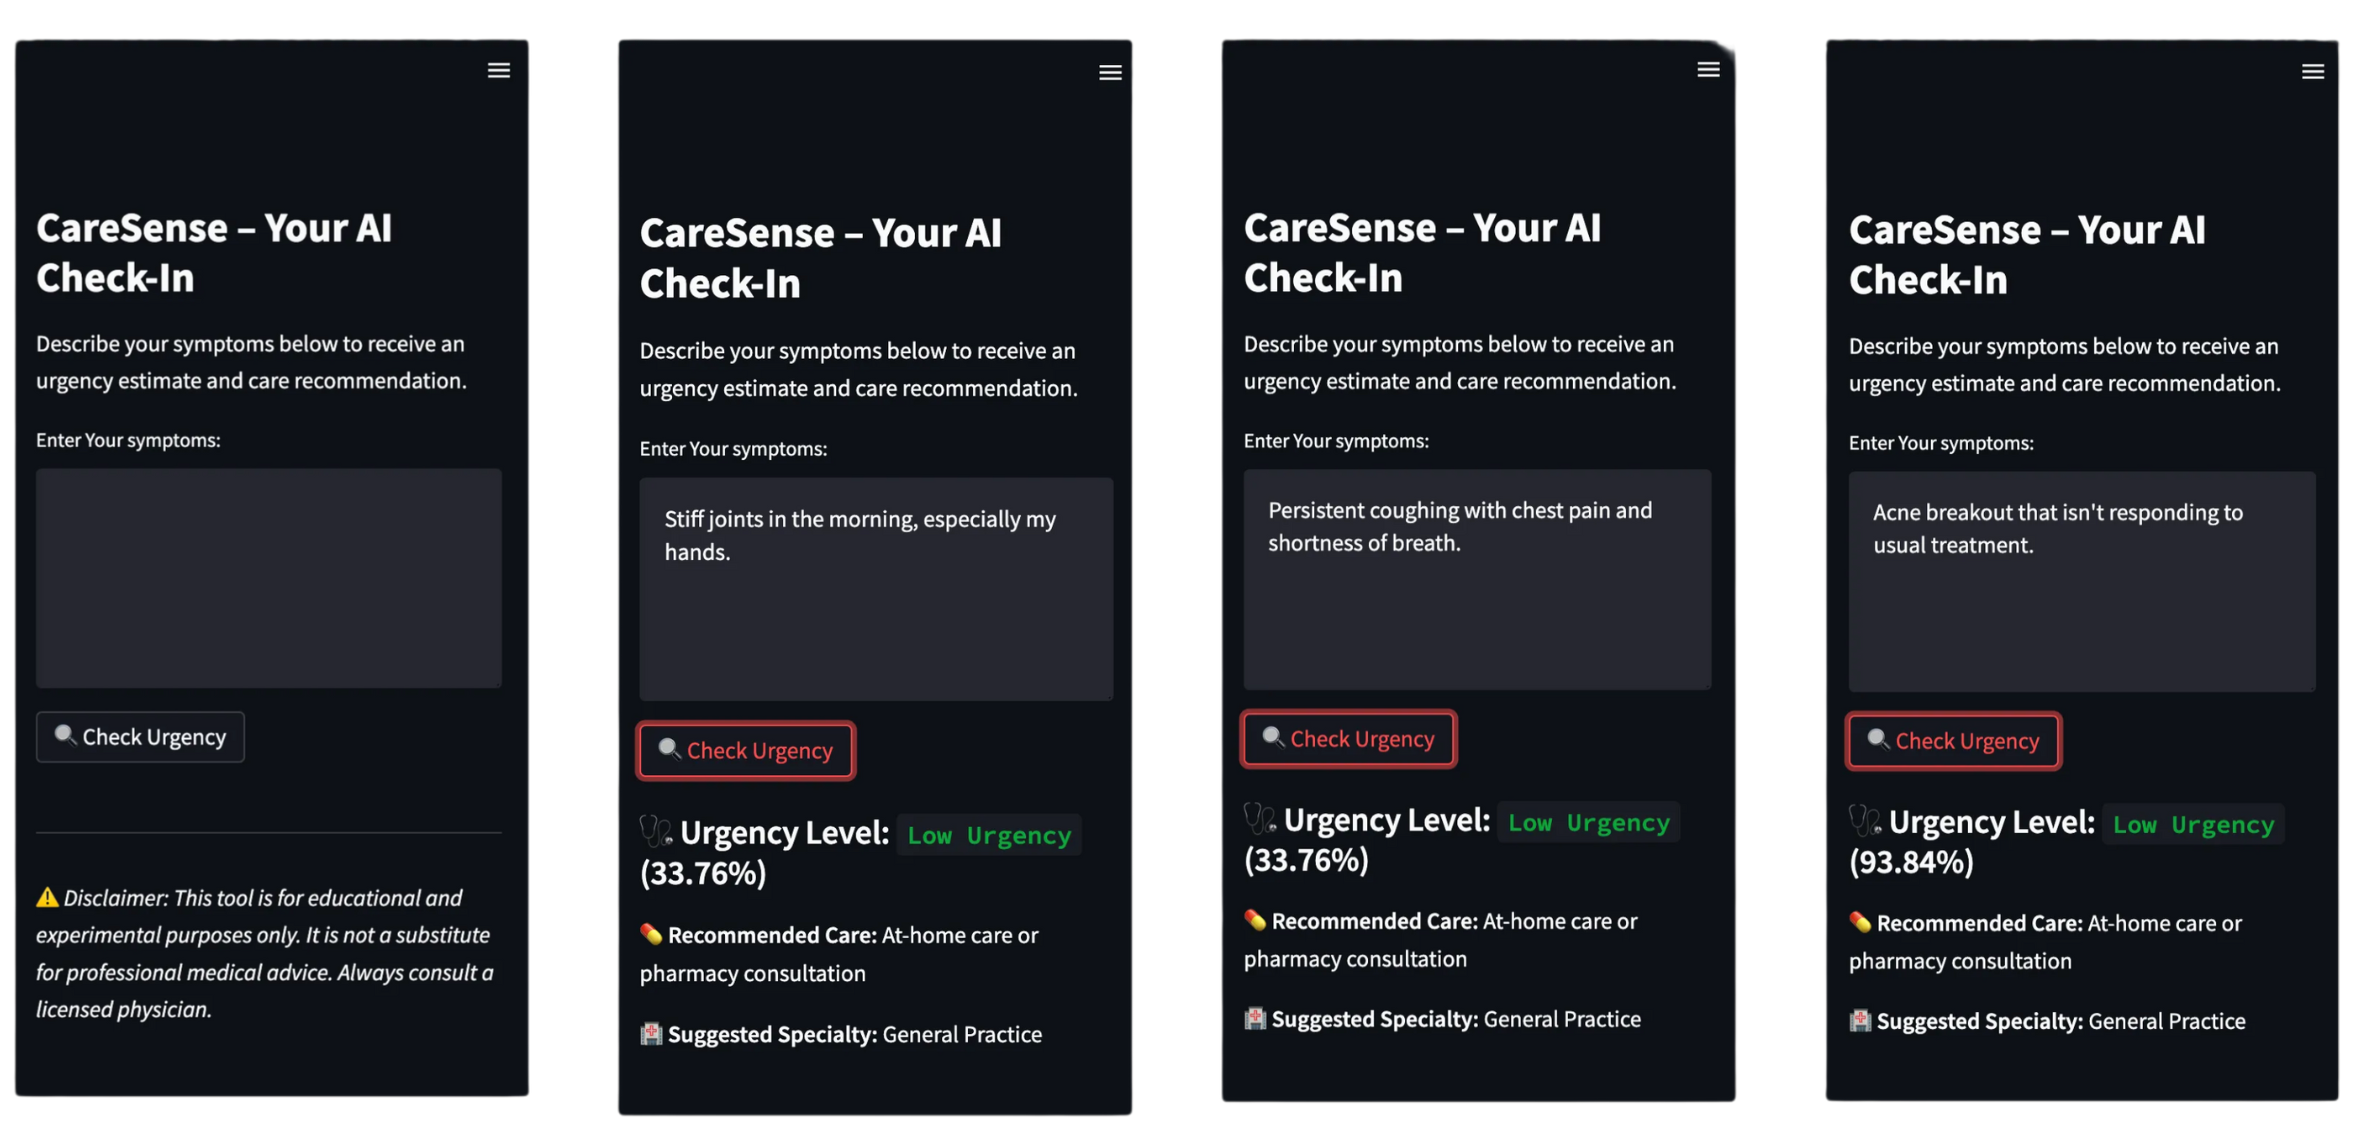
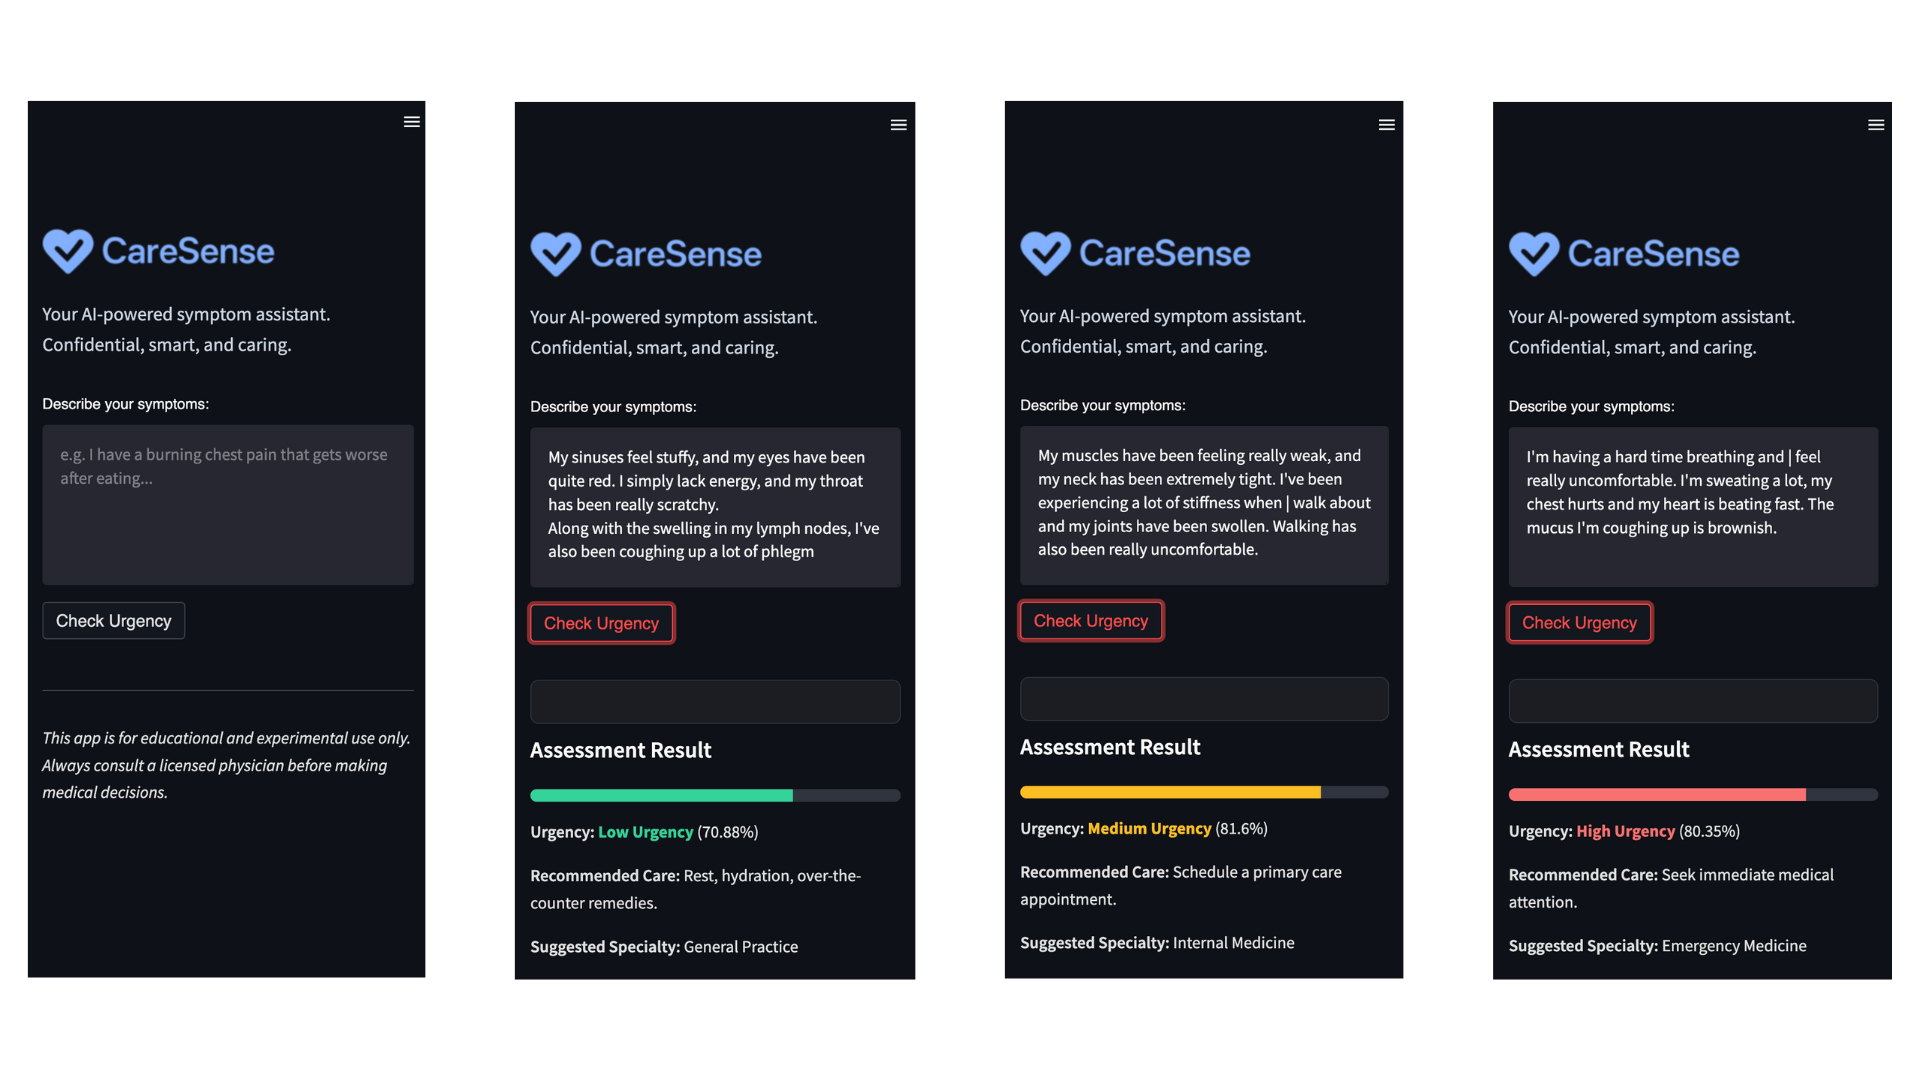
fixing stylistic changes before deployment

diff --git a/app.py b/app.py
@@ -3,14 +3,14 @@ from classifier import classify_symptom
 from datetime import datetime
 import pytz
 
-# Set up the app appearance and metadata
+# App config
 st.set_page_config(
     page_title="CareSense – AI Symptom Assistant",
     layout="centered",
     initial_sidebar_state="collapsed"
 )
 
-# Add dark mode styling with a clean, calming look
+# Styles
 st.markdown("""
     <style>
         html, body, .reportview-container, .main {
@@ -18,16 +18,10 @@ st.markdown("""
             color: #e1e1e1;
             font-family: 'Segoe UI', sans-serif;
         }
-        .title {
-            color: #38bdf8;
-            font-size: 32px;
-            font-weight: 700;
-            padding-top: 10px;
-        }
         .subtitle {
             color: #cbd5e1;
             font-size: 18px;
-            margin-bottom: 20px;
+            margin-bottom: 30px;
         }
         .card {
             background-color: #1a1d23;
@@ -36,36 +30,33 @@ st.markdown("""
             margin-top: 20px;
             border: 1px solid #2f343f;
         }
-        .urgency-high {
-            color: #f87171;
-            font-weight: bold;
+        .urgency-high { color: #f87171; font-weight: bold; }
+        .urgency-medium { color: #fbbf24; font-weight: bold; }
+        .urgency-low { color: #34d399; font-weight: bold; }
+        .progress-container {
+            height: 12px;
+            background-color: #2f343f;
+            border-radius: 6px;
+            overflow: hidden;
+            margin: 8px 0 16px 0;
         }
-        .urgency-medium {
-            color: #fbbf24;
-            font-weight: bold;
-        }
-        .urgency-low {
-            color: #34d399;
-            font-weight: bold;
+        .progress-bar {
+            height: 100%;
+            transition: width 0.3s ease;
         }
     </style>
 """, unsafe_allow_html=True)
 
-# Logo and subtitle (safe for local use)
+# Logo and subtitle
 st.image("assets/logo/caresense_logo_dark.png", width=220)
+st.markdown("<div class='subtitle'>Your AI-powered symptom assistant. Confidential, smart, and caring.</div>", unsafe_allow_html=True)
 
-st.markdown("<div style='color: #cbd5e1; font-size: 18px; margin-bottom: 20px;'>"
-            "Your AI-powered symptom assistant. Confidential, smart, and caring."
-            "</div>", unsafe_allow_html=True)
-
-
-# Let user input their symptoms
+# User input
 symptom_input = st.text_area("Describe your symptoms:", height=150, placeholder="e.g. I have a burning chest pain that gets worse after eating...")
 
-# Get current time for logs
 timestamp = datetime.now(pytz.timezone("US/Mountain")).strftime("%b %d, %Y at %I:%M %p")
 
-# Classify symptoms and log result
+# Handle user request
 if st.button("Check Urgency"):
     if symptom_input.strip():
         result = classify_symptom(symptom_input)
@@ -76,47 +67,81 @@ if st.button("Check Urgency"):
         st.session_state.logs.append({
             "text": symptom_input,
             "timestamp": timestamp,
-            "urgency": result["urgency"]
+            "urgency": result["urgency"],
+            "confidence": round(result["confidence"], 2)
         })
 
-        # Style urgency with colors
+        urgency_color = {
+            "High Urgency": "#f87171",
+            "Medium Urgency": "#fbbf24",
+            "Low Urgency": "#34d399"
+        }[result["urgency"]]
+
         urgency_class = {
             "High Urgency": "urgency-high",
             "Medium Urgency": "urgency-medium",
             "Low Urgency": "urgency-low"
         }[result["urgency"]]
 
-        # Show results
-        st.markdown(f"<div class='card'>", unsafe_allow_html=True)
-        st.markdown(f"<h4>Assessment Result</h4>", unsafe_allow_html=True)
-        st.markdown(f"<b>Urgency:</b> <span class='{urgency_class}'>{result['urgency']}</span> ({round(result['confidence'], 2)}%)", unsafe_allow_html=True)
-        st.markdown(f"<b>Recommended Care:</b> {result['care_type']}")
-        st.markdown(f"<b>Suggested Specialty:</b> {result['specialty']}")
+        confidence_percent = round(result["confidence"], 2)
 
-        # Add insight if symptom is recurring
+        # Show results
+        st.markdown("<div class='card'>", unsafe_allow_html=True)
+        st.markdown("<h4>Assessment Result</h4>", unsafe_allow_html=True)
+
+        # Confidence bar
+        st.markdown(f"""
+            <div class="progress-container">
+                <div class="progress-bar" style="width: {confidence_percent}%; background-color: {urgency_color};"></div>
+            </div>
+        """, unsafe_allow_html=True)
+
+        st.markdown(f"**Urgency:** <span class='{urgency_class}'>{result['urgency']}</span> ({confidence_percent}%)", unsafe_allow_html=True)
+        st.markdown(f"**Recommended Care:** {result['care_type']}")
+        st.markdown(f"**Suggested Specialty:** {result['specialty']}")
+
+        # Add insight if this symptom is repeating
         if any(log["text"] == symptom_input and log["urgency"] != "Low Urgency" for log in st.session_state.logs[:-1]):
             st.markdown("<hr>", unsafe_allow_html=True)
-            st.markdown("**CareSense Insight:** This symptom has been reported more than once. Consider discussing this pattern with a provider.", unsafe_allow_html=True)
+            st.markdown("**CareSense Insight:** This symptom has been reported more than once. Consider discussing this pattern with a provider.")
 
         st.markdown("</div>", unsafe_allow_html=True)
     else:
         st.warning("Please enter a symptom description.")
 
-# Show recent symptom history
+# History section
 if "logs" in st.session_state and st.session_state.logs:
     st.markdown("<h4 style='margin-top: 40px;'>Recent Symptom History</h4>", unsafe_allow_html=True)
+
     for entry in reversed(st.session_state.logs[-5:]):
-        color = {
+        bg_color = {
+            "High Urgency": "#2f1e1e",
+            "Medium Urgency": "#2f2617",
+            "Low Urgency": "#1d2f25"
+        }[entry["urgency"]]
+
+        border_color = {
             "High Urgency": "#f87171",
             "Medium Urgency": "#fbbf24",
             "Low Urgency": "#34d399"
         }[entry["urgency"]]
-        st.markdown(
-            f"<div style='color:{color}; padding: 4px 0;'>{entry['timestamp']} — {entry['text']} [{entry['urgency']}]</div>",
-            unsafe_allow_html=True
-        )
 
-# Footer disclaimer
+        st.markdown(f"""
+        <div style='
+            background-color: {bg_color};
+            border-left: 4px solid {border_color};
+            padding: 16px;
+            border-radius: 6px;
+            margin: 10px 0;
+            line-height: 1.6;
+        '>
+            <span style='color: #9ca3af; font-size: 14px;'>{entry['timestamp']}</span><br>
+            <span style='font-size: 15px;'>{entry['text']}</span><br>
+            <strong style='color: {border_color};'>[{entry['urgency']}]</strong>
+        </div>
+        """, unsafe_allow_html=True)
+
+# Footer
 st.markdown("""---  
 *This app is for educational and experimental use only. Always consult a licensed physician before making medical decisions.*
 """)

diff --git a/README.md b/README.md
@@ -76,6 +76,16 @@ tesseract --version
 
 ## Demo
 
+### Test Prompts
+
+My sinuses feel stuffy, and my eyes have been quite red. |
+simply lack energy, and my throat has been really scratchy.
+Along with the swelling in my lymph nodes, I've also been
+coughing up a lot of phlegm
+
+My muscles have been feeling really weak, and my neck has been extremely tight. I've been experiencing a lot of stiffness when | walk about and my joints have been swollen. Walking has also been really uncomfortable.
+
+I'm having a hard time breathing and | feel really uncomfortable. I'm sweating a lot, my chest hurts and my heart is beating fast. The mucus I'm coughing up is brownish.
 
 ![Example Output Screenshot](./assets/screenshots/results.png)
 
